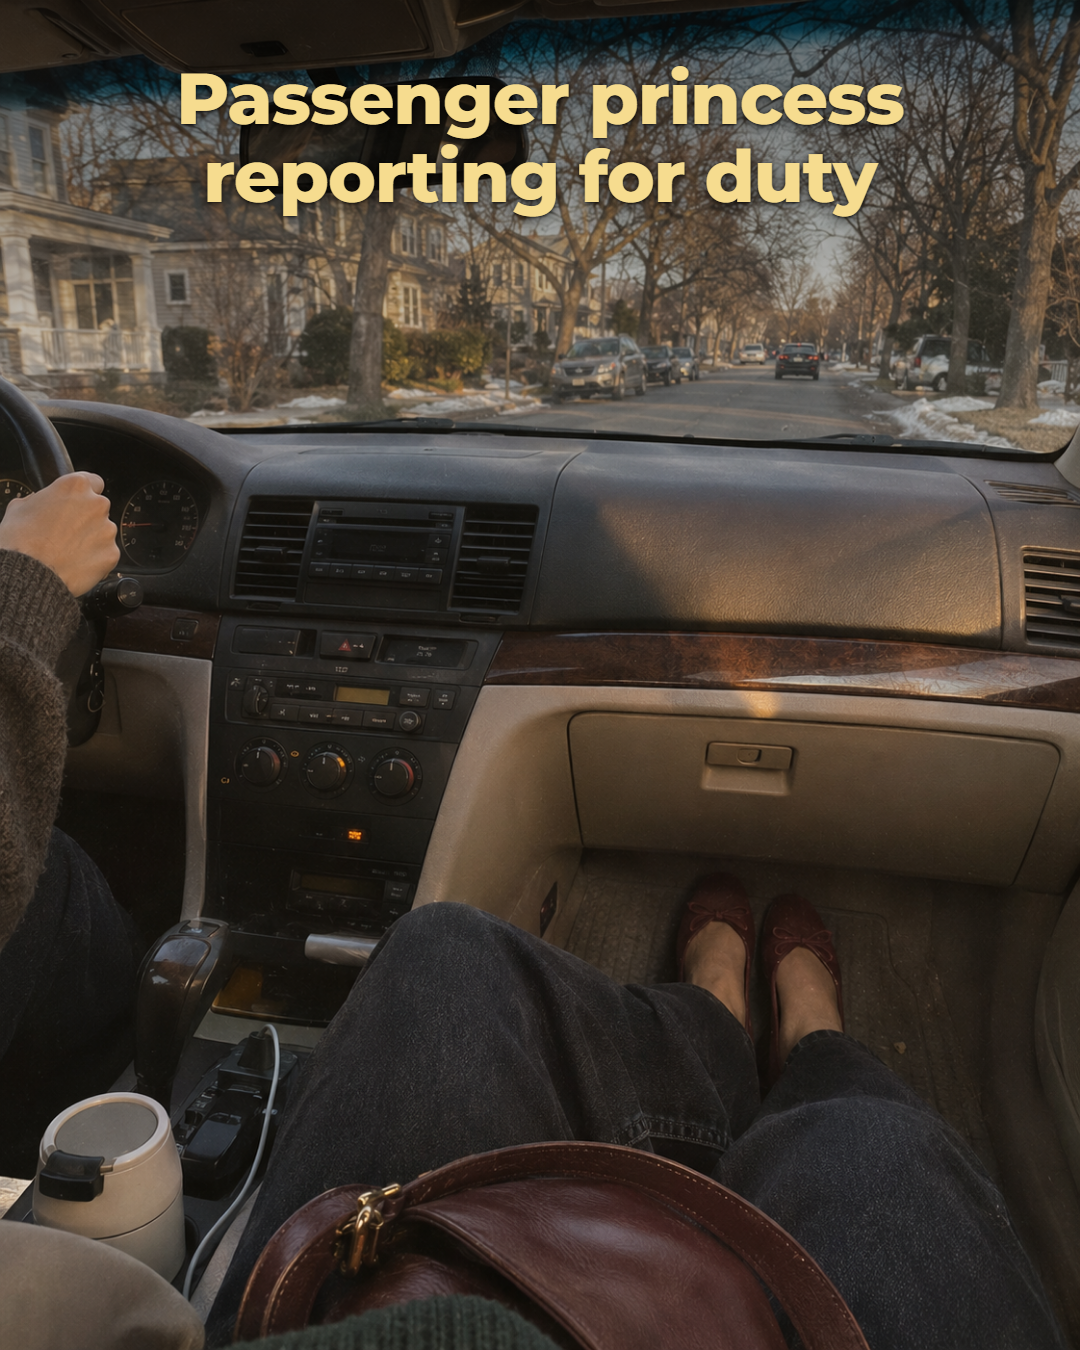
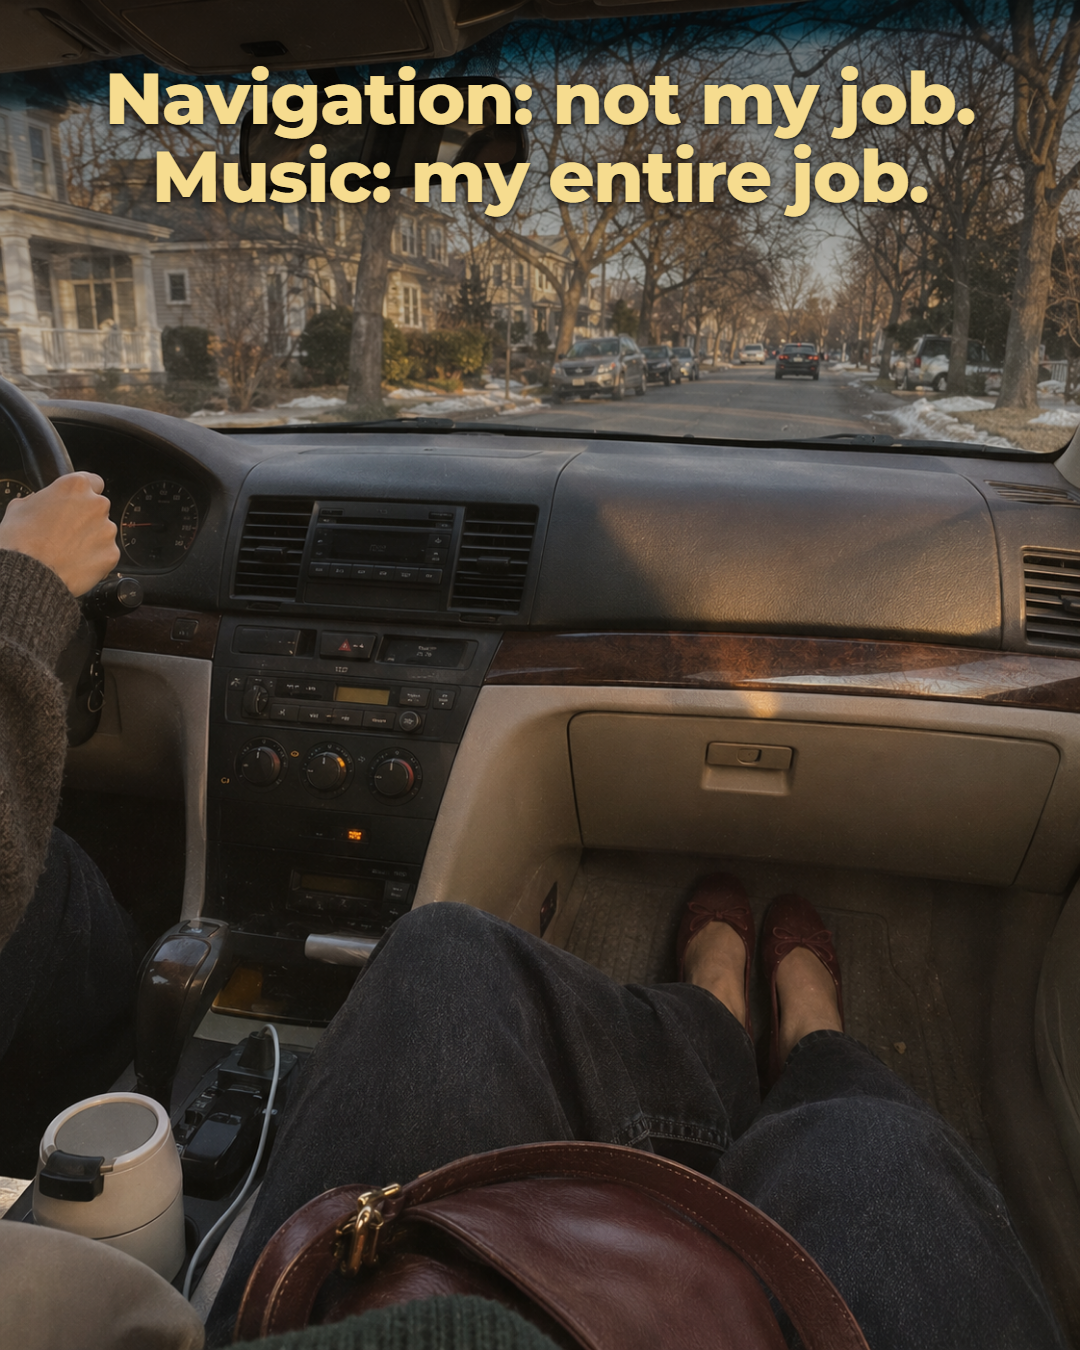
Car + pasta meme lines

Changed region(s): [[0.0917, 0.0311, 0.9167, 0.1867]]

diff --git a/specs/make_avatar_memes2.py b/specs/make_avatar_memes2.py
@@ -40,8 +40,8 @@ M = {  # file: (text, 'top'|'bottom')
  "h_pizza": ("Came for one pizza.<br>Stayed three hours.", "bottom"),
  "h_brunch": ("Sunday debrief:<br>nobody is fine", "bottom"),
  "h_carflowers": ("The flowers got<br>the passenger seat", "top"),
- "i_car": ("Passenger princess<br>reporting for duty", "top"),
- "i_pasta": ("The recipe said a splash<br>of wine. I don’t know her.", "top"),
+ "i_car": ("Navigation: not my job.<br>Music: my entire job.", "top"),
+ "i_pasta": ("The wine is for the sauce.<br>Some of it. 😉", "top"),
  "i_mirrorkiss": ("Every girls’ night ends<br>at the bathroom mirror", "bottom"),
  "i_cozylegs": ("Sunday reset, step one:<br>don’t get up", "top"),
  "i_peonies": ("Fresh flowers are a<br>grocery staple.<br>Don’t fact-check me.", "top"),
